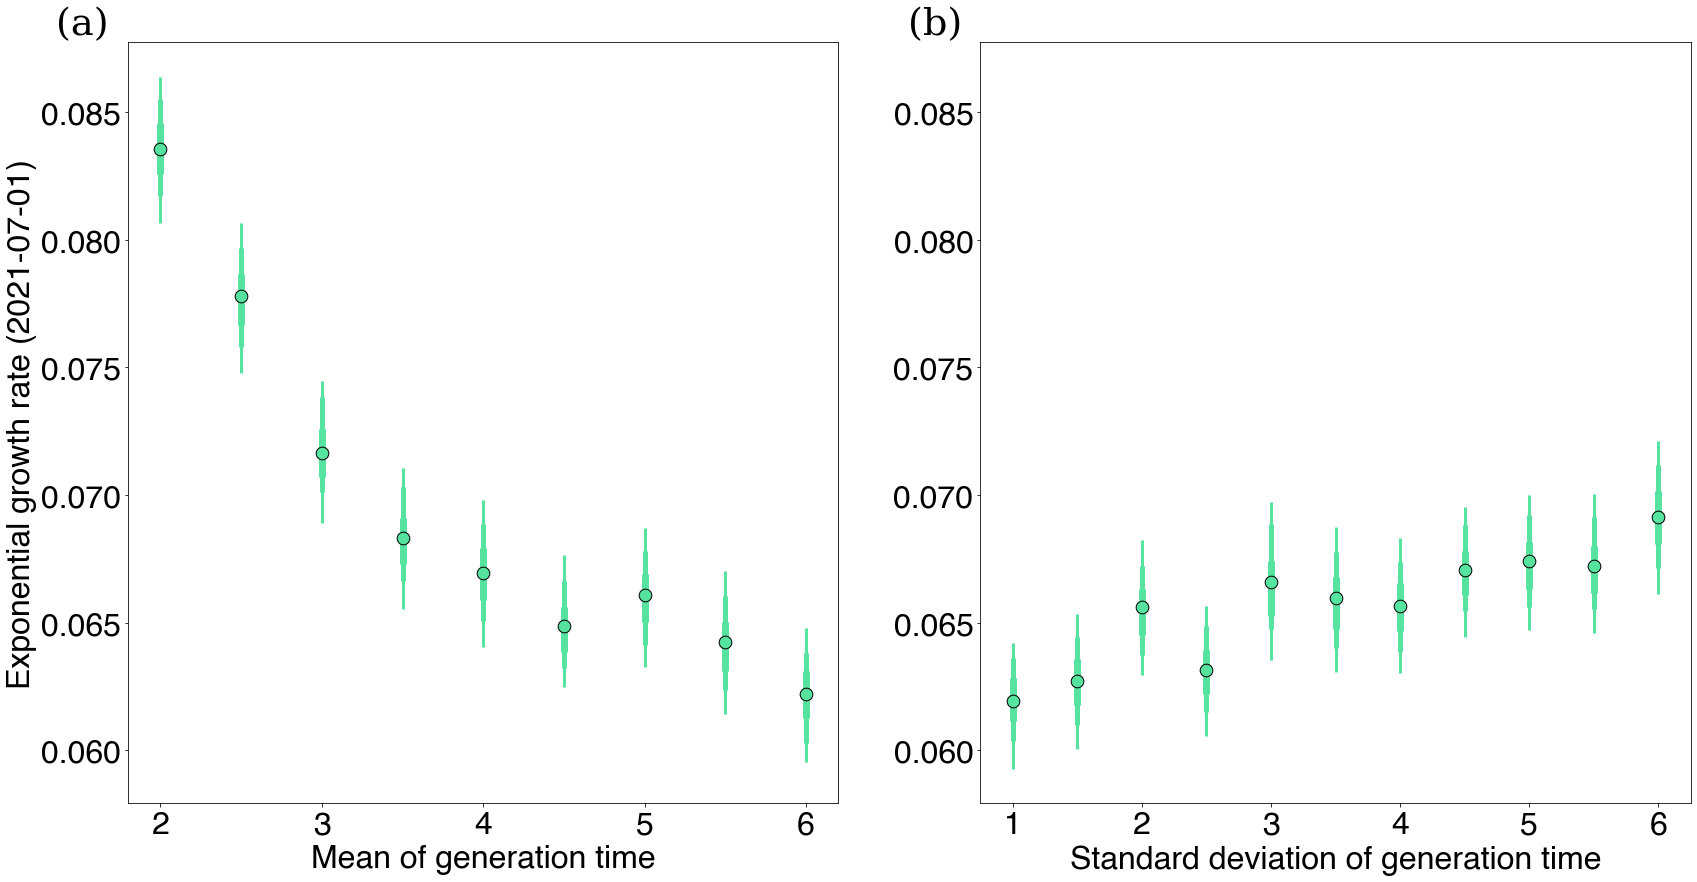
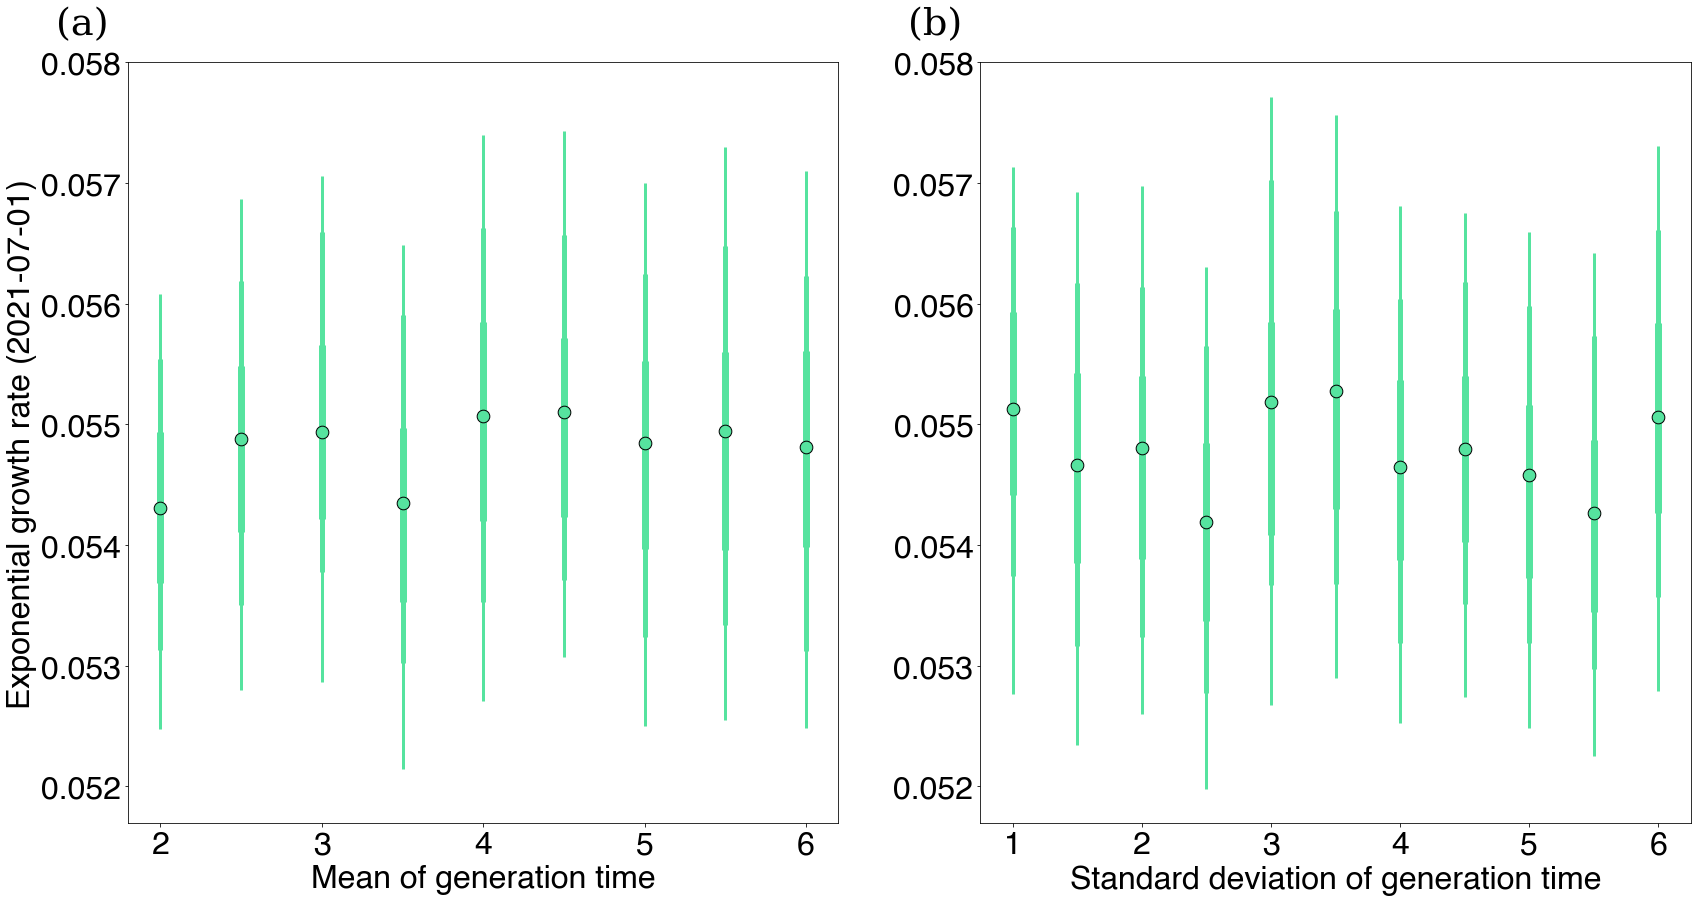
Updating little r sensitivity results

diff --git a/manuscript/rt-from-frequency-dynamics.tex b/manuscript/rt-from-frequency-dynamics.tex
@@ -205,7 +205,8 @@ We imagine that this general approach could provide early warning of imminent ep
 With this mind, this work is not without limitations.
 The underlying transmission model is deterministic and does not account for demographic stochasticity and over-dispersion in transmission which has been documented in SARS-CoV-2 transmission \cite{Wong29416}.
 As with all methods which depend on parameterizations of the generation time, misspecification of the generation time can be lead to biased estimates of the effective reproduction number or growth advantages \cite{Gostic2020}.
-In order to quantify this source of error, we derive an equation relating our inferred growth advantages, the epidemic growth rates, and the mean and standard deviation of the generation time distribution (see Supplemental Appendix).
+In order to quantify this source of error, we derive an equation relating our inferred growth advantages, the epidemic growth rates, and the mean and standard deviation of the generation time distribution.
+This source of error can be partially combatted by converting effective reproduction numbers to their corresponding epidemic growth rates under the generation time assumption. (see Supplement Appendix)
 There is also a general need to account for biases in the case data which may not faithfully describe the infection dynamics of SARS-CoV-2 due to changes in case ascertainment rate, as possibly caused by differences in testing intensity, infection severity among other reasons.
 However, we suspect that case ascertainment remained largely consistent from January to October 2021.
 
@@ -254,7 +255,9 @@ We bin the generation time $g$ and the onset distribution $o$ to nearest day, so
 \end{align}
 
 We parameterize the generation time $g$ as having Gamma distribution with mean 5.2 and standard deviation 1.72 in line with the estimates of \cite{Ganyani2020} and onset time $o$ as having LogNormal with mean 6.8 and standard deviation 2.0 in line with \cite{Cheng2021}. 
-We note that the choice of generation time can have strong effects on the inferred effective reproduction number and growth advantage under renewal equation model. The effect of generation time choice is quantifiable as shown in Figures \ref{fig:generation_time_sensitivity} \ref{fig:growth_advantage_sensitivity} and supplemental results (see Relating exponential growth rates to relative effective reproduction numbers).
+We note that the choice of generation time can have strong effects on the inferred effective reproduction number and growth advantage under renewal equation model. 
+The effect of generation time choice is quantifiable as shown in Figures \ref{fig:generation_time_sensitivity} \ref{fig:growth_advantage_sensitivity} and supplemental results (see Relating exponential growth rates to relative effective reproduction numbers). 
+Though converting the posterior effective reproduction numbers to exponential growth rates may be more robust to changes in generation time as can be seen in Figure \ref{fig:little_r_sensitivity}.
 
 This method of using delays to represent lags between infection and observation can be extended to use multiple delays to better fit other data sources such as hospitalization or deaths.
 
@@ -501,6 +504,7 @@ Taking a logarithm, we can also evaluate the sensitivity of our inferred growth 
  \delta_{v}  = \ln \left( \frac{R_{t,v}}{R_{t,0}} \right) = \left( \frac{T_{g}^{2}}{s^{2}} \right)  \ln \left( \frac{1 + r_{v}  \left(\frac{s^{2}}{T_{g}}\right)}{1 + r_{0} \left(\frac{s^{2}}{T_{g}}\right) } \right).
 \end{align*}
 The behavior here is analogous to that discussed above when the mean $T_{g}$ and standard deviation $s$ are changed although these growth advantages appear to relatively stable under varying standard deviation in Figure \ref{fig:growth_advantage_sensitivity}.
+Although the effective reproduction number and the growth advantage appear to have strong dependence on generation time parameters, we find that the exponential growth rate $r$ is more robust to changes in generation time (see Figure \ref{fig:little_r_sensitivity}).
 
 The cases of exponential and Gamma-distributed generation times highlight that for non-deterministic generation times there is no guarantee that the relative effective reproduction number depends on only the difference in exponential growth rates.
 In fact, these estimates based on the deterministic generation times correspond to the case in which the standard deviation shrinks zero, they are likely overestimates of variant advantages given the observed variation in the serial interval of SARS-CoV-2 infections.
